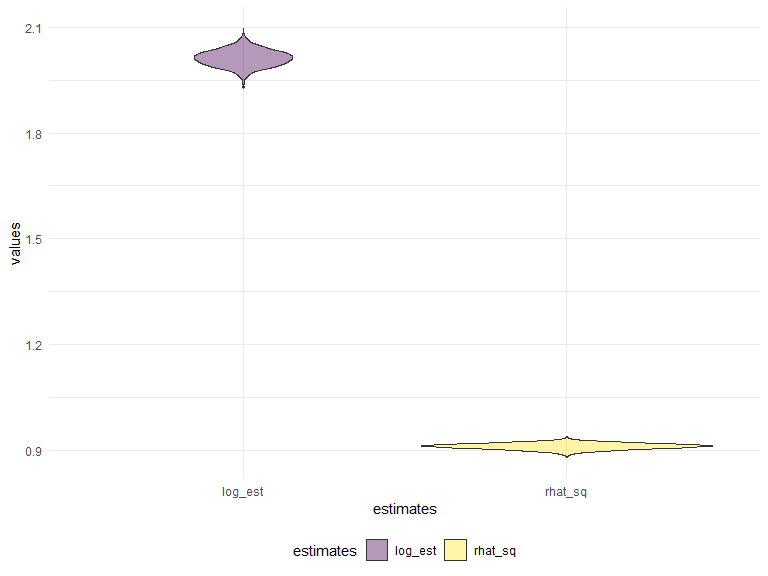
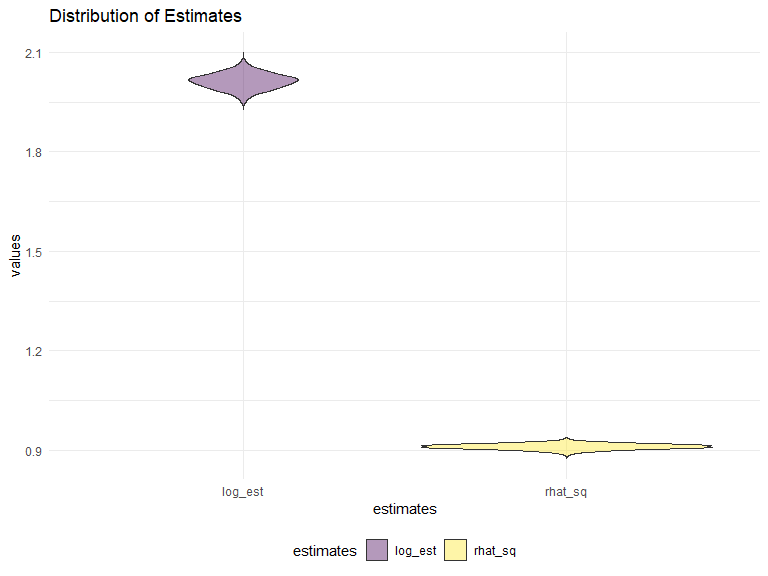
Description and analysis

diff --git a/p8105_hw6_wo2179.md b/p8105_hw6_wo2179.md
@@ -117,7 +117,7 @@ models_results_df %>%
 
 ## Problem 2
 
-Find some residuals
+Load and clean data, convert some class numeric to factor, check NA
 
 ``` r
 baby_df = 
@@ -128,8 +128,7 @@ baby_df =
     frace = as_factor(frace),
     mrace = as_factor(mrace),
     malform = as_factor(malform)
-  ) %>%
-  drop_na()
+  ) 
 ```
 
     ## 
@@ -140,11 +139,21 @@ baby_df =
     ## i Use `spec()` for the full column specifications.
 
 ``` r
+Chk_NA = is.na(baby_df) 
+# no NAs!
+```
+
+Explore distribution of outcome (bwt) visually
+
+``` r
 baby_df %>% 
   ggplot(aes(x = bwt)) + geom_density()
 ```
 
 <img src="p8105_hw6_wo2179_files/figure-gfm/unnamed-chunk-7-1.png" width="90%" />
+
+Explore visually the relationship between outcome and candidate
+predictors
 
 ``` r
 p1 = ggplot(baby_df, aes(blength, bwt)) + geom_point()
@@ -159,11 +168,12 @@ p6 = ggplot(baby_df, aes(momage,bwt)) + geom_point()
 
 <img src="p8105_hw6_wo2179_files/figure-gfm/unnamed-chunk-8-1.png" width="90%" />
 
-One using length at birth and gestational age as predictors (main
-effects only) One using head circumference, length, sex, and all
-interactions (including the three-way interaction) between these
+fit model with predictors explored previously
 
 ``` r
+# H0 = There is no significant linear relationship between the outcome (bwt) and predictors, Bo = 0
+# H1 = There is a significant linear relationship between the outcome and the predictors, Bo ≠ 0
+
 mod1 = 
       lm(bwt ~ blength + bhead + gaweeks + smoken + wtgain + momage , data = baby_df )
 summary(mod1)
@@ -220,30 +230,96 @@ broom::glance(mod1)
     ## # ... with 3 more variables: deviance <dbl>, df.residual <int>, nobs <int>
 
 ``` r
-baby_res =
+qt(0.95, 4335)
+```
+
+    ## [1] 1.645205
+
+``` r
+aov(mod1)
+```
+
+    ## Call:
+    ##    aov(formula = mod1)
+    ## 
+    ## Terms:
+    ##                   blength     bhead   gaweeks    smoken    wtgain    momage
+    ## Sum of Squares  629354727 146465932   7667503    818743   6094422   3473378
+    ## Deg. of Freedom         1         1         1         1         1         1
+    ##                 Residuals
+    ## Sum of Squares  344777488
+    ## Deg. of Freedom      4335
+    ## 
+    ## Residual standard error: 282.0167
+    ## Estimated effects may be unbalanced
+
+``` r
+summary(aov(mod1))
+```
+
+    ##               Df    Sum Sq   Mean Sq F value   Pr(>F)    
+    ## blength        1 629354727 629354727 7913.08  < 2e-16 ***
+    ## bhead          1 146465932 146465932 1841.56  < 2e-16 ***
+    ## gaweeks        1   7667503   7667503   96.41  < 2e-16 ***
+    ## smoken         1    818743    818743   10.29  0.00134 ** 
+    ## wtgain         1   6094422   6094422   76.63  < 2e-16 ***
+    ## momage         1   3473378   3473378   43.67 4.35e-11 ***
+    ## Residuals   4335 344777488     79533                     
+    ## ---
+    ## Signif. codes:  0 '***' 0.001 '**' 0.01 '*' 0.05 '.' 0.1 ' ' 1
+
+``` r
+qf(0.95, 6, 4335)
+```
+
+    ## [1] 2.100678
+
+Exploring the results above, all the relationships were significant and
+we reject the null hypothesis and conclude that there is a significant
+linear relationship between the predictors and the outcome. Sidenote:
+the p\_values were significant as well.
+
+plot residuals against fitted values
+
+``` r
 baby_df %>%
   add_residuals(mod1) %>%
   add_predictions(mod1) %>%
-  select(bwt, blength, bhead , gaweeks , smoken , wtgain , momage, resid, pred)
-  
-  ggplot(baby_res, aes(x = pred, y = resid)) + geom_point() + geom_smooth(method = lm, se = FALSE ) +
-  geom_line(aes(y = pred), col = 'red') + 
+  select(bwt, blength, bhead , gaweeks , smoken , wtgain , momage, resid, pred) %>%
+ ggplot(aes(x = pred, y = resid)) +
+  geom_point(size = 2) +
+  geom_smooth(aes(colour = pred, fill = pred)) + 
+                geom_hline(yintercept = 0) +
   labs(title = "Residuals vs Fitted values plot",
        x = "Fitted values",
        y = "Residuals")
 ```
 
-    ## `geom_smooth()` using formula 'y ~ x'
+    ## `geom_smooth()` using method = 'gam' and formula 'y ~ s(x, bs = "cs")'
 
 <img src="p8105_hw6_wo2179_files/figure-gfm/unnamed-chunk-10-1.png" width="90%" />
+The modeling process I employed involved visualizing the distribution of
+the outcome. Looked up some literature to explore already proven
+relationships between outcome and some predictors.I explored the visual
+relationships between the outcome and my predictors of interest.
+Proposed an hypothesis, fitted a model and tested the hypothesis to
+explore that there truly was a relationship between my outcome and
+predictors.
+
+fit one model using length at birth and gestational age as predictors
+(main effects only) fit another model using head circumference, length,
+sex, and all interactions (including the three-way interaction) between
+these
 
 ``` r
 mod2 =
       lm(bwt~ blength + gaweeks, data = baby_df)
-  
+
 mod3 =
       lm(bwt~ bhead + blength + babysex + bhead*blength + bhead*babysex + babysex*blength + babysex*blength*bhead, data = baby_df)
 ```
+
+Cross validation\!
 
 ``` r
 cv_df = 
@@ -253,7 +329,7 @@ cv_df =
     test = map(test, as_tibble))
 ```
 
-Fit candidate models
+Fit candidate models and obtain RMSEs\!
 
 ``` r
 mod_com_df = 
@@ -268,6 +344,8 @@ mod_com_df =
     rmse_mod2 = map2_dbl(mod_2, test, ~rmse(model = .x, data = .y)),
     rmse_mod3 = map2_dbl(mod_3, test, ~rmse(model = .x, data = .y)))
 ```
+
+Compare models. (Sidenote: RMSE has the range of outcome)
 
 ``` r
 mod_com_df %>% 
@@ -284,6 +362,8 @@ mod_com_df %>%
 <img src="p8105_hw6_wo2179_files/figure-gfm/unnamed-chunk-14-1.png" width="90%" />
 
 ## problem 3
+
+Load weather dataset
 
 ``` r
 weather_df = 
@@ -309,7 +389,7 @@ weather_df =
 
     ## file min/max dates: 1869-01-01 / 2020-09-30
 
-exploratory
+Visual exploration\!
 
 ``` r
 weather_df %>% 
@@ -318,6 +398,8 @@ weather_df %>%
 ```
 
 <img src="p8105_hw6_wo2179_files/figure-gfm/unnamed-chunk-16-1.png" width="90%" />
+
+5000 bootstrap samples fitting slr for tmax and tmin
 
 ``` r
 bootstr =
@@ -331,6 +413,8 @@ bootstr =
   unnest(results, r_hat) %>%
 mutate(term = str_replace(term,"\\(Intercept\\)","Intercept"))
 ```
+
+obtaining estimates, tidying and cleaning
 
 ``` r
 est =
@@ -346,17 +430,44 @@ values_from = "estimate"
     log_est = log(intercept * tmin)
   ) %>%
   select(-intercept, -tmin)
+
+est
 ```
+
+    ## # A tibble: 5,000 x 2
+    ##    rhat_sq log_est
+    ##      <dbl>   <dbl>
+    ##  1   0.902    2.02
+    ##  2   0.907    2.01
+    ##  3   0.903    2.01
+    ##  4   0.916    2.03
+    ##  5   0.908    2.05
+    ##  6   0.907    2.01
+    ##  7   0.906    2.06
+    ##  8   0.902    2.01
+    ##  9   0.917    1.98
+    ## 10   0.899    2.04
+    ## # ... with 4,990 more rows
+
+visualization of distribution
 
 ``` r
 est %>%
   pivot_longer(1:2,
                names_to = "estimates",
                values_to = "values") %>%
-  ggplot(aes(x = estimates, y = values, fill = estimates)) + geom_violin(alpha = 0.4) 
+  ggplot(aes(x = estimates, y = values, fill = estimates)) + 
+  geom_violin(alpha = 0.4) +
+  labs( title = "Distribution of Estimates")
 ```
 
 <img src="p8105_hw6_wo2179_files/figure-gfm/unnamed-chunk-19-1.png" width="90%" />
+Both estimates had a normal curve. R\_hat squared had a tall and skinny
+curve while the log estimate had a short and fat curve. This signifies
+that R\_hat squared had a lesser standard deviation compared with log
+estimate.
+
+95% confidence interval for both estimates
 
 ``` r
 est %>%
@@ -366,13 +477,16 @@ est %>%
   group_by(estimates) %>% 
   summarize(
     ci_lower = quantile(values, 0.025), 
-    ci_upper = quantile(values, 0.975))
+    ci_upper = quantile(values, 0.975), mean = mean(values), st_dev = sd(values))
 ```
 
     ## `summarise()` ungrouping output (override with `.groups` argument)
 
-    ## # A tibble: 2 x 3
-    ##   estimates ci_lower ci_upper
-    ##   <chr>        <dbl>    <dbl>
-    ## 1 log_est      1.97     2.06 
-    ## 2 rhat_sq      0.894    0.927
+    ## # A tibble: 2 x 5
+    ##   estimates ci_lower ci_upper  mean  st_dev
+    ##   <chr>        <dbl>    <dbl> <dbl>   <dbl>
+    ## 1 log_est      1.96     2.06  2.01  0.0241 
+    ## 2 rhat_sq      0.894    0.927 0.911 0.00853
+
+We can expect the true pop parameters of these estimates to fall within
+these intervals.
